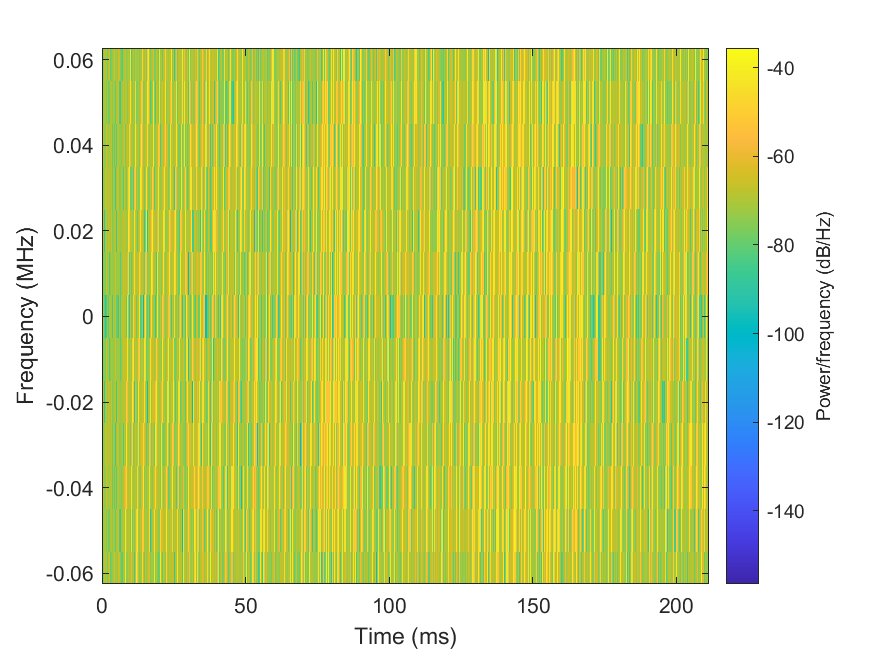
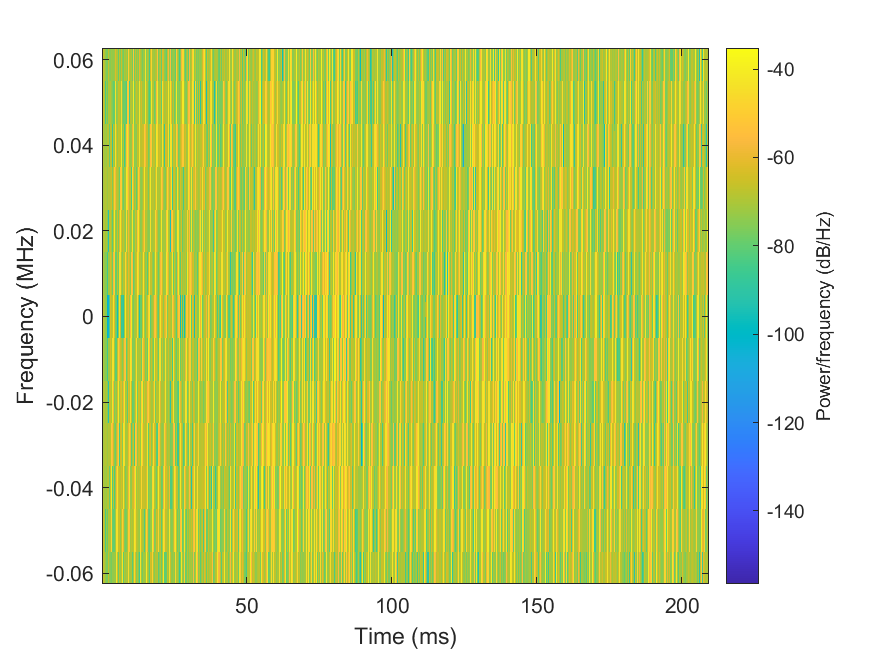
Started adding frft stuff, although input parameters to the functions need refining

diff --git a/LoRa Mesh/AlignTrack/SchoolProj/LoRa_demod_frft.m b/LoRa Mesh/AlignTrack/SchoolProj/LoRa_demod_frft.m
@@ -1,0 +1,99 @@
+function [f, Y, Y2] = LoRa_demod_frft(signal, fc, SF, BW, Fs, cfo, window)
+    % LoRa_demod_1 demodulates full LoRa packet
+
+    % Inputs:
+    % - signal: The received time-domain signal
+    % - SF: LoRa spreading factor (e.g., 7, 8, 9, etc.)
+    % - BW: LoRa bandwidth (e.g., 125e3 for 125 kHz)
+    % - Fs: Sampling frequency of the signal
+
+    %% Return if SF is not in the range
+    if SF > 12 || SF < 7
+        return
+    end
+
+    % Generate Reference Downchirp
+    phy = LoRaPHY(fc, SF, BW, Fs);
+    dChirpsDemod  = phy.chirp(false, SF, BW, Fs, 0, cfo, 0);
+    result = multiply_with_window(signal, window) .* dChirpsDemod;
+    NFFT = 2^nextpow2(length(result));
+    x2 = frft(result, NFFT, NFFT, pi/4);
+    Y = abs(x2) / length(result);
+    Y2 = imag(x2) / length(result);
+
+    %NFFT=-T:0.01:T;
+    figure,
+    plot(NFFT,result);xlabel('Time');ylabel('Amplitude');title('Input Function');
+
+    figure,
+    plot(Y);
+    xlabel('frequency');ylabel('Amplitude');title('Magnitude Response of FRFT');
+
+    figure,
+    plot(Y2);
+    xlabel('frequency');ylabel('Amplitude');title('Imaginary part of FRFT');
+
+    f = Fs / 2 * linspace(0, 1, NFFT / 2+1);
+end
+
+% Helper function to convolve with a specified window
+function output_signal = convolve_with_window(input_signal, window_type)
+    % Define the window size based on the input signal length
+    window_length = length(input_signal);
+    
+    % Generate the window based on the specified type
+    switch window_type
+        case 'rectangular'
+            window = ones(1, window_length);
+        case 'linear_increasing'
+            window = linspace(0, 1, window_length);
+        case 'linear_decreasing'
+            window = linspace(1, 0, window_length);
+        case 'triangular'
+            window = 1 - abs(linspace(-1, 1, window_length));
+        case 'welch'
+            window = 1 - ((linspace(-1, 1, window_length)).^2);
+        case 'sine'
+            window = sin(pi * (linspace(0, 1, window_length) - 0.5));
+        case 'hann'
+            window = 0.5 * (1 - cos(2 * pi * (0:window_length - 1) / (window_length - 1)));
+        case 'hamming'
+            window = 0.54 - 0.46 * cos(2 * pi * (0:window_length - 1) / (window_length - 1));
+        otherwise
+            error('Unknown window type: %s', window_type);
+    end
+    
+    % Convolve the input signal with the window
+    output_signal = conv(input_signal, window, 'same'); % 'same' to keep the output size same as input, 'full' to show full output
+end
+
+% Helper function to multiply with a specified window
+function output_signal = multiply_with_window(input_signal, window_type)
+    % Define the window size based on the input signal length
+    window_length = length(input_signal);
+    
+    % Generate the window based on the specified type
+    switch window_type
+        case 'rectangular'
+            window = ones(1, window_length);
+        case 'linear_increasing'
+            window = linspace(0, 1, window_length);
+        case 'linear_decreasing'
+            window = linspace(1, 0, window_length);
+        case 'triangular'
+            window = 1 - abs(linspace(-1, 1, window_length));
+        case 'welch'
+            window = 1 - ((linspace(-1, 1, window_length)).^2);
+        case 'sine'
+            window = sin(pi * (linspace(0, 1, window_length) - 0.5));
+        case 'hann'
+            window = 0.5 * (1 - cos(2 * pi * (0:window_length - 1) / (window_length - 1)));
+        case 'hamming'
+            window = 0.54 - 0.46 * cos(2 * pi * (0:window_length - 1) / (window_length - 1));
+        otherwise
+            error('Unknown window type: %s', window_type);
+    end
+    
+    % Multiply the input signal with the window
+    output_signal = input_signal .* window.';
+end

diff --git a/LoRa Mesh/AlignTrack/SchoolProj/LoRa_one_complete_packet_decoding_MULT2.m b/LoRa Mesh/AlignTrack/SchoolProj/LoRa_one_complete_packet_decoding_MULT2.m
@@ -13,7 +13,7 @@ Fs = 10e6;  % sampling freq
 Ts = 2^SF / BW;   % Symbol period
 fc = 915e6;  % carrier center frequency
 Power = 14;  % Tx power 14 dB
-noise_sigma = 0;
+noise_sigma = 1;
 numPreambleSymbols = 8; % Standard LoRa preamble symbol count
 message1 = "Hello World!";
 message2 = "Hello AlignTrack!";
@@ -55,12 +55,13 @@ disp(symbols3);
 
 offset_time = round(min([(length(phy.modulate(symbols1)) / Fs) * 1000, (length(phy.modulate(symbols2)) / Fs) * 1000, (length(phy.modulate(symbols3)) / Fs) * 1000])); % ms
 
-windows = {'rectangular', 'welch', 'sine', 'hann', 'hamming'};
+%windows = {'rectangular', 'welch', 'sine', 'hann', 'hamming'};
+windows = {'hann'};
 tEnds = [];
 SER = [];
 cum_SER = [];
 new_SER = [];
-trials = 10;
+trials = 1;
 
 for trial = 1:1:trials
     trial
@@ -121,6 +122,7 @@ for trial = 1:1:trials
         while (shift(i) + chirp_len - 1) <= length(received_signal)
             % received signal after windowing and FFT
             [f, received_fft] = LoRa_demod_1(received_signal(shift(i):shift(i) + chirp_len - 1), fc, SF, BW, Fs, cfo, string(windows(window)));
+            [~, received_fft_abs, received_fft_imag] = LoRa_demod_frft(received_signal(shift(i):shift(i) + chirp_len - 1), fc, SF, BW, Fs, cfo, string(windows(window)));
             AA = AlignTrack(received_fft);
             
             if length(AA) > 1

diff --git a/LoRa Mesh/AlignTrack/SchoolProj/frft.m b/LoRa Mesh/AlignTrack/SchoolProj/frft.m
@@ -1,0 +1,26 @@
+function x2 = frft(X, T, U, a)
+% Function to Calculate CONTIONOUS FRACTIONAL FOURIER TRANSFORM
+% Inputs
+% T: 
+% X: Input function
+% U: Range of frequency
+% a: Rotation angle (can't be 0)
+% Outputs
+% x2:
+
+p=0;
+q=0;
+x1 = [];
+for t=-T:0.01:T
+    p=p+1;
+    for u=-U:0.1:U
+        q=q+1;
+%         x1(p,q)=(sqrt((1-j*cot(a))/(2*pi)))*exp(j*(((0.5*(u^2)+0.5*(t^2))*cot(a))-u*t*(1/sin(a))));
+        x1(p,q)=(sqrt(1-1i*cot(a*pi/2)))*exp(1i*pi*((u^2)*cot(a*pi/2)+(t^2)*cot(a*pi/2)-2*u*t*(1/sin(a*pi/2))));
+    end
+    q=0;
+end
+
+x2=0.01*(X*x1);
+
+% x3=20*log10(abs(x2)./max(x2));
